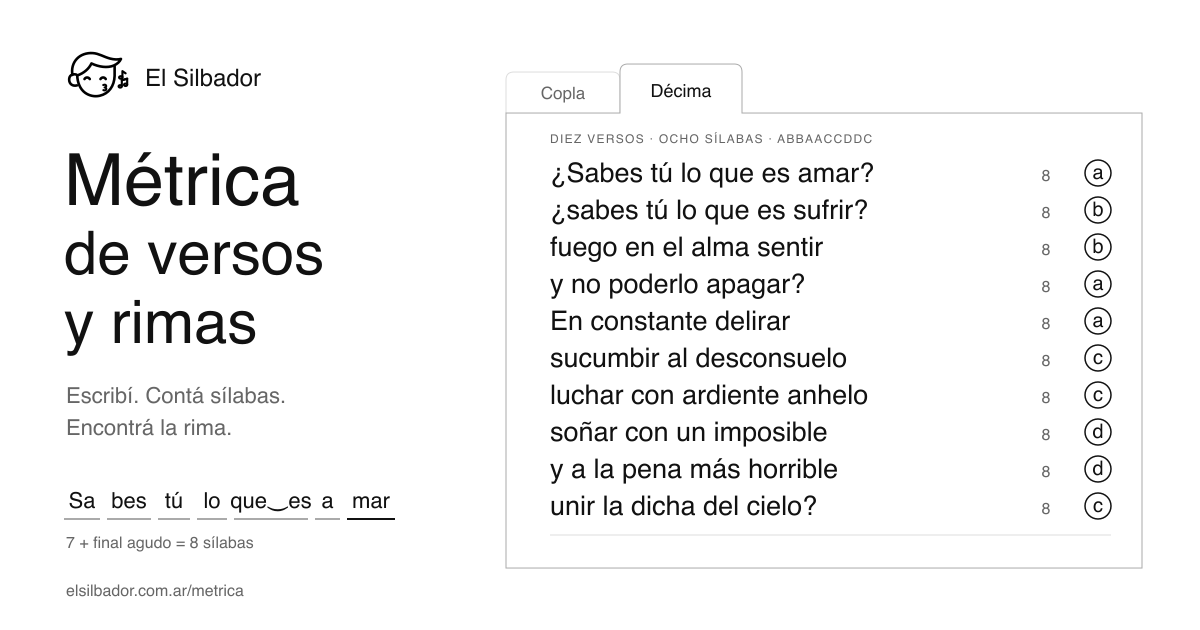
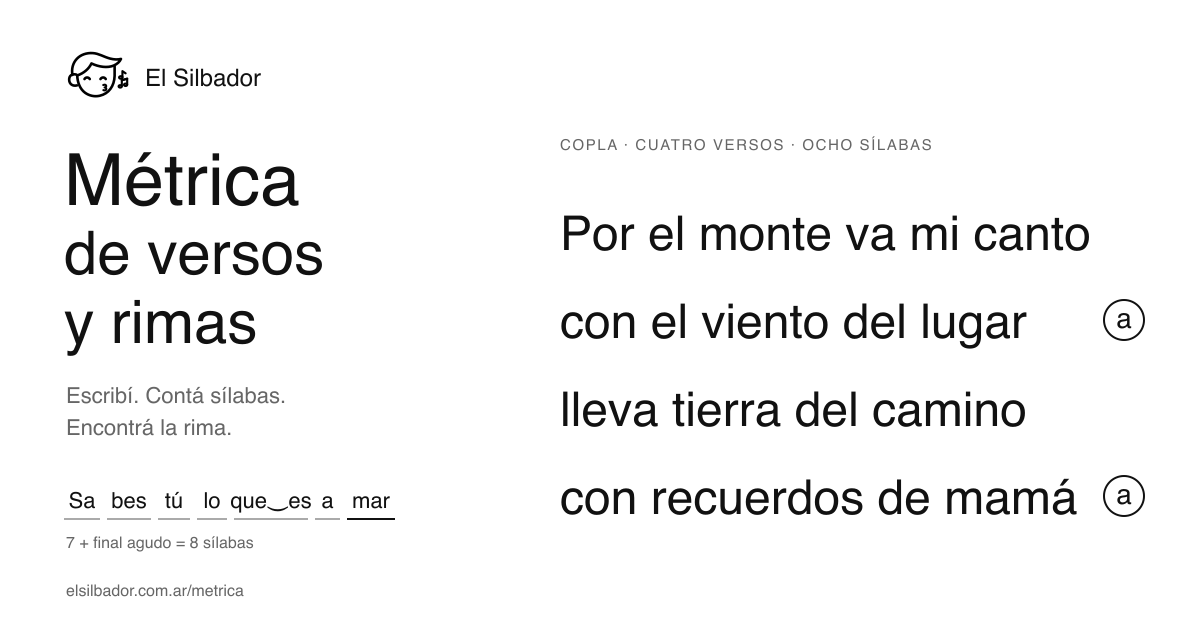
Metrica OG image: show the copla text larger instead of the tab simulator (v0.29.33)

diff --git a/src/app/metrica/notebookSeo.ts b/src/app/metrica/notebookSeo.ts
@@ -30,7 +30,7 @@ export function notebookMetadata(mode: NotebookMode): Metadata {
     width: mode === "metrica" ? 1200 : 1734,
     height: mode === "metrica" ? 630 : 907,
     alt: mode === "metrica"
-      ? "Métrica de versos y rimas en El Silbador: una décima con conteo de sílabas y familias de rima."
+      ? "Métrica de versos y rimas en El Silbador: una copla con conteo de sílabas y rima."
       : "El Silbador, cancionero y cuadernos para escribir canciones",
   };
   // Next replaces nested objects; each route needs complete social metadata.
